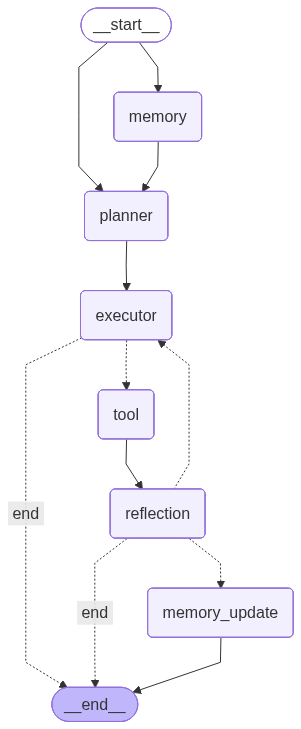
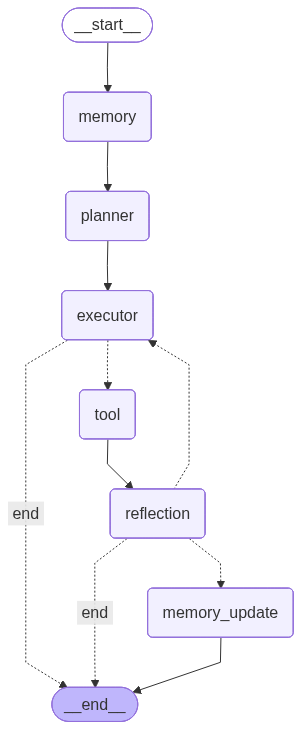
Context Builder Improved

diff --git a/tools.py b/tools.py
@@ -11,6 +11,7 @@ matplotlib.use(
 import matplotlib.pyplot as plt
 import os
 from typing import Literal
+from pydantic import BaseModel, ConfigDict
 import json
 import os
 import re
@@ -27,6 +28,15 @@ import traceback
 from langchain_core.tools import tool
 
 DB_PATH = Path(__file__).resolve().parent / "database" / "sales.db"
+
+
+class ChartDataPoint(BaseModel):
+    """A single, explicit chart point for reliable tool-call validation."""
+
+    model_config = ConfigDict(extra="forbid")
+
+    label: str
+    value: float
 
 
 def get_schema_text():
@@ -226,8 +236,8 @@ def get_schema() -> str:
 
 @tool
 def generate_chart(
-    data: str,
-    chart_type: Literal["bar", "line", "pie", "plt.scatter"],
+    data: list[ChartDataPoint],
+    chart_type: Literal["bar", "line", "pie", "scatter"],
     title: str,
 ) -> str:
     """
@@ -240,22 +250,18 @@ def generate_chart(
     IMPORTANT
     ---------
     - Always call `run_sql` FIRST.
-    - Pass the SQL output directly to this tool.
-    - Do NOT rename column names.
-    - Do NOT transform the JSON structure.
-    - This tool automatically detects:
-        * the first text column as the X-axis
-        * the first numeric column as the Y-axis
+    - Pass a compact list of points, each containing only `label` and `value`.
+    - Use `label` for the X-axis/category and `value` for the metric.
 
     Args:
         data:
-            JSON array returned by run_sql.
+            Array of chart points.
 
             Example:
             [
-                {"customer_name": "Alice", "sales": 1200},
-                {"customer_name": "Bob", "sales": 950},
-                {"customer_name": "Charlie", "sales": 780}
+                {"label": "Alice", "value": 1200},
+                {"label": "Bob", "value": 950},
+                {"label": "Charlie", "value": 780}
             ]
 
         chart_type:
@@ -291,7 +297,7 @@ def generate_chart(
     fig = None
 
     try:
-        rows = json.loads(data)
+        rows = [point.model_dump() for point in data]
 
         if not isinstance(rows, list):
             return pretty_json(
@@ -331,29 +337,8 @@ def generate_chart(
                 }
             )
 
-        text_columns = df.select_dtypes(include=["object"]).columns.tolist()
-        numeric_columns = df.select_dtypes(include=["number"]).columns.tolist()
-
-        if not text_columns:
-            return pretty_json(
-                {
-                    "status": "error",
-                    "tool": "generate_chart",
-                    "message": "No categorical column found.",
-                }
-            )
-
-        if not numeric_columns:
-            return pretty_json(
-                {
-                    "status": "error",
-                    "tool": "generate_chart",
-                    "message": "No numeric column found.",
-                }
-            )
-
-        x_column = text_columns[0]
-        y_column = numeric_columns[0]
+        x_column = "label"
+        y_column = "value"
 
         df = df.dropna(subset=[x_column, y_column])
 

diff --git a/graph.py b/graph.py
@@ -20,7 +20,8 @@ builder = StateGraph(AgentState)
 # Nodes
 # -----------------------------
 
-
+builder.add_edge(START, "memory")
+builder.add_edge("memory", "planner")
 
 builder.add_node("planner", planner_node)
 
@@ -33,18 +34,6 @@ builder.add_node("reflection", reflection_node)
 builder.add_node("memory", memory_node)
 
 builder.add_node("memory_update", memory_update_node)
-# -----------------------------
-# Start
-# -----------------------------
-
-builder.add_edge(START, "memory")
-builder.add_edge("memory", "planner")
-
-builder.add_edge(
-    START,
-    "planner",
-)
-
 builder.add_edge(
     "planner",
     "executor",

diff --git a/llm.py b/llm.py
@@ -10,7 +10,7 @@ llm = ChatGroq(
     # 🌟 TOP-TIER REASONING & LARGE PRODUCTION MODELS
     
     # ==========================================
-    "openai/gpt-oss-120b",  # Highest rated overall, heavy reasoning + built-in search/code execution
+    #"openai/gpt-oss-120b",  # Highest rated overall, heavy reasoning + built-in search/code execution
     #"llama-3.3-70b-versatile",       # Best balanced open-weight production model (high capacity, multi-tool use)
     #"deepseek-r1-distill-llama-70b", # Exceptional specialized model for advanced logic, math, and coding tasks
     # # ==========================================
@@ -29,7 +29,7 @@ llm = ChatGroq(
     # # ==========================================
     # # 🏃 LIGHTWEIGHT, FAST & UTILITY MODELS
     # # ==========================================
-    # "llama-3.1-8b-instant",          # The go-to lightweight model for high-throughput, low-latency text tasks
+    "llama-3.1-8b-instant",          # The go-to lightweight model for high-throughput, low-latency text tasks
     # "openai/gpt-oss-safeguard-20b",  # Specialized model strictly tuned for content moderation and safety
     # # ==========================================
     # # 🎙️ AUDIO SPEECH-TO-TEXT MODELS
@@ -37,8 +37,8 @@ llm = ChatGroq(
     #"whisper-large-v3",              # Gold standard high-fidelity audio transcription
     # "whisper-large-v3-turbo"         # Maximum speed optimized audio transcription,
     api_key=GROQ_API_KEY,
-    temperature=0.5,
-    max_tokens=2048,
+    temperature=0,
+    # max_tokens=2048,
 )
 
 

diff --git a/context_builder.py b/context_builder.py
@@ -45,6 +45,11 @@ Rules:
 - Always present final results as a natural-language summary or markdown table, never raw JSON.
 - Generate charts using 'generate_chart' if the user requests a chart.
 - The chart must be saved in the 'charts' directory and the path included in the final answer.
+- To prepare a chart, first query a compact dataset with exactly two aliases:
+  `label` (text) and `value` (numeric). For example, use
+  `strftime('%Y-%m', order_date) AS label, SUM(sales) AS value`.
+- Call `generate_chart` only after that SQL result is available. Its `data`
+  argument must be an array of `{{"label": "...", "value": number}}` objects.
 
 Tool Usage Rules:
 1. Call ONLY ONE tool at a time.

diff --git a/app.py b/app.py
@@ -5,7 +5,7 @@ from console_output import print_json
 result = graph.invoke(
     {
         "messages": [
-            HumanMessage(content=" Trends over time (sales, profit, quantity, discounts) and line charts."),
+            HumanMessage(content=" Trends over time month on month(sales, profit, quantity, discounts) and generate appropriate chart."),
         ],
         "trace": [],
     },